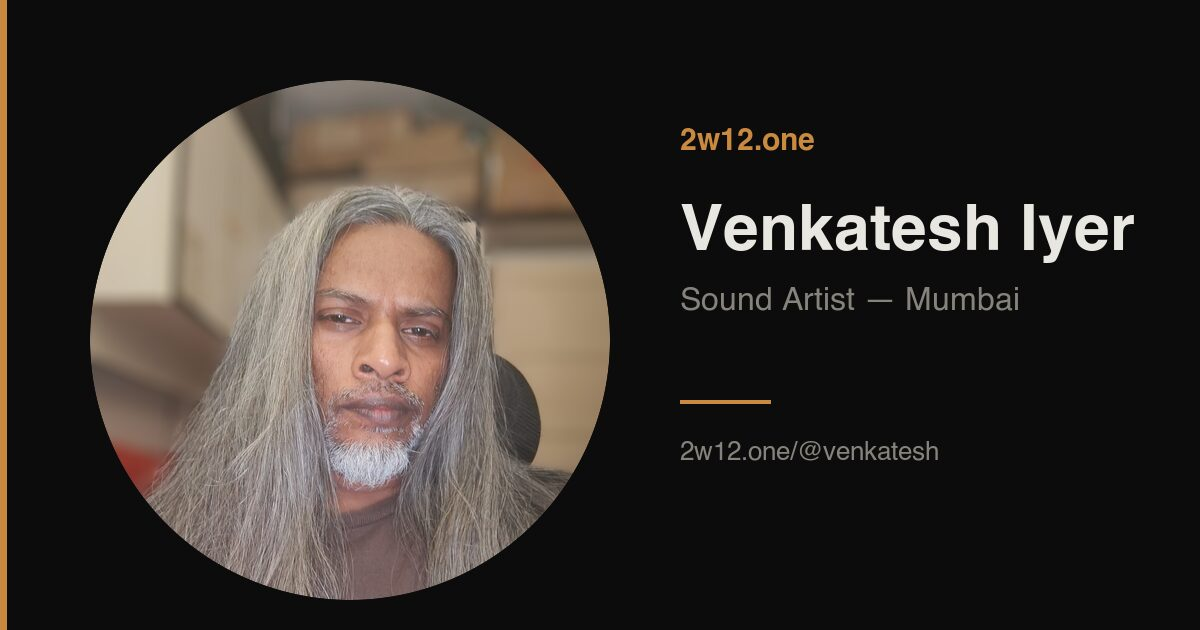
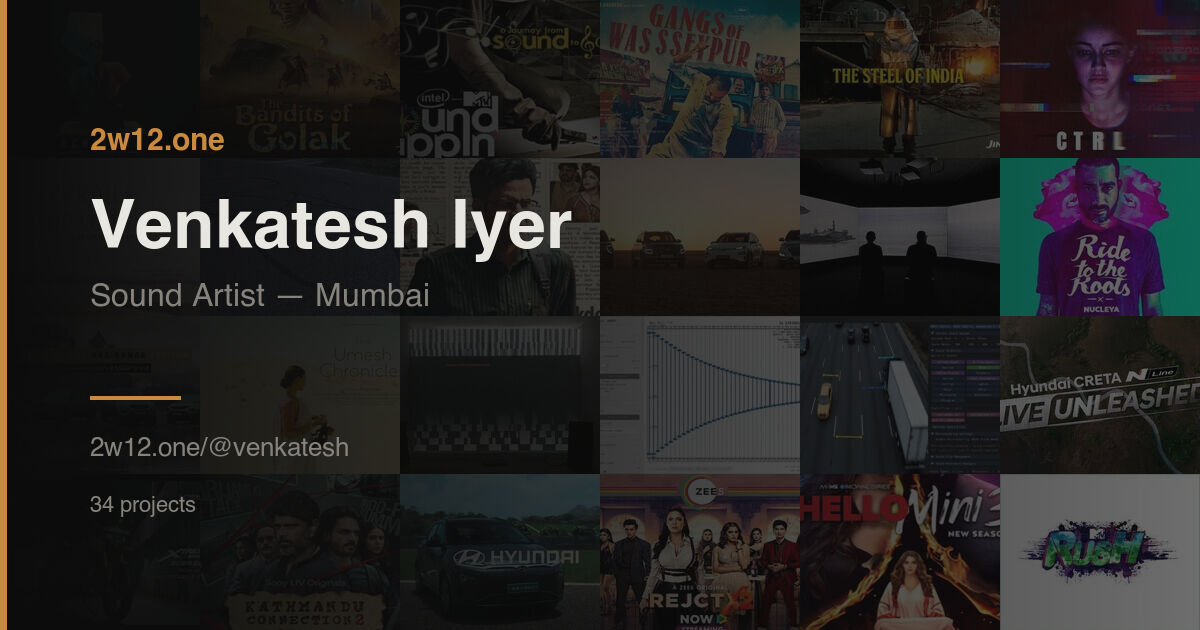
Make the link-preview card a mosaic of the project posters
A headshot says who; a wall of film posters says what. On a link sent to a
client the second lands harder, so the card is now a 6x4 mosaic of the project
covers in page order — pinned first, then featured, then newest, hidden
excluded — darkened 58% with a left scrim, and the wordmark, name, tagline,
handle and project count over it. Tiles centre-crop so posters of different
aspect ratios don't letterbox, and the list cycles if there are fewer covers
than tiles. 1200x630 at 95 KB. Falls back to a plain dark card if a profile has
no local covers.

Two ImageMagick traps hit on the way, both silent:

-gravity persists across a command. It was still 'north' from the mosaic's
-extent, so every -annotate centred instead of left-aligning — the text landed
in the middle of the image on top of the busiest posters.

gradient: only renders top-to-bottom, so the intended left-to-right scrim
composited as nothing at all and the copy sat unreadable over the artwork. It
has to be built tall and rotated 270.

diff --git a/scripts/make-og-card.js b/scripts/make-og-card.js
@@ -3,9 +3,13 @@
 //
 // Pointing og:image straight at the headshot did not work: the original is
 // 2448x3264 and 3.6 MB, and scrapers skip images that large. They also expect
-// landscape; a portrait gets cropped badly or dropped. So this composes a real
-// card instead — dark ground, circular headshot, name, tagline, wordmark — and
-// keeps it well under the size scrapers tolerate.
+// landscape; a portrait gets cropped badly or dropped.
+//
+// So this composes a card: a 6x4 mosaic of the project posters in page order,
+// darkened hard with a left scrim, and the name, tagline, handle and project
+// count over it. The posters are texture and evidence of a body of work — a
+// headshot says who, a wall of film posters says what, and the second reads
+// better on a link someone sends a client.
 //
 // Needs ImageMagick (`brew install imagemagick`). Output is committed, so
 // production never runs this.
@@ -53,61 +57,103 @@ function wrap(text, perLine) {
   return lines;
 }
 
-function buildCard(profile) {
-  const slug = profile.slug;
-  const out = path.join(OUT_DIR, `${slug}.jpg`);
+// Tiles are laid out 6x4 at 200x158, which fills 1200x632 and gets cropped to
+// 630. Fewer covers than tiles just cycles the list.
+const COLS = 6;
+const ROWS = 4;
+const TW = 200;
+const TH = 158;
 
-  // Prefer the original over the .webp — ImageMagick handles jpg/png everywhere,
-  // and webp support depends on how it was built.
-  let portrait = null;
-  if (profile.avatar_url && profile.avatar_url.startsWith('/')) {
-    const rel = profile.avatar_url.replace(/^\//, '');
-    for (const candidate of [rel.replace(/\.webp$/i, '.jpg'), rel.replace(/\.webp$/i, '.png'), rel]) {
+async function coversFor(knexRef, profile) {
+  const rows = await knexRef('tracks').where({ profile_id: profile.id }).whereNull('parent_track_id');
+  const ordered = rows
+    .filter((t) => !t.hidden)
+    .sort(
+      (a, b) =>
+        (b.sort_order || 0) - (a.sort_order || 0) ||
+        (b.featured ? 1 : 0) - (a.featured ? 1 : 0) ||
+        (b.year || 0) - (a.year || 0)
+    );
+
+  // Resolve to a file ImageMagick will definitely read — webp support depends
+  // on how the local build was compiled, and the png/jpg masters are all here.
+  const files = [];
+  for (const t of ordered) {
+    if (!t.cover_image_url || !t.cover_image_url.startsWith('/images/')) continue;
+    const rel = t.cover_image_url.replace(/^\//, '');
+    for (const candidate of [rel.replace(/\.webp$/i, '.png'), rel.replace(/\.webp$/i, '.jpg'), rel]) {
       const abs = path.join(__dirname, '..', 'public', candidate);
       if (fs.existsSync(abs)) {
-        portrait = abs;
+        files.push(abs);
         break;
       }
     }
   }
+  return files;
+}
 
-  const args = ['-size', `${W}x${H}`, `xc:${BG}`];
+function buildMosaic(files) {
+  const need = COLS * ROWS;
+  const tiles = [];
+  for (let i = 0; i < need; i++) {
+    const src = files[i % files.length];
+    const out = `/tmp/og-tile-${i}.jpg`;
+    // Fill the tile and centre-crop, so posters of different aspect ratios
+    // don't letterbox.
+    execFileSync('magick', [src, '-resize', `${TW}x${TH}^`, '-gravity', 'center', '-extent', `${TW}x${TH}`, '-quality', '88', out]);
+    tiles.push(out);
+  }
+  const mosaic = '/tmp/og-mosaic.jpg';
+  execFileSync('magick', ['montage', '-mode', 'concatenate', '-tile', `${COLS}x${ROWS}`, ...tiles, '-quality', '90', mosaic]);
+  tiles.forEach((t) => fs.unlinkSync(t));
+  return mosaic;
+}
 
-  // A hairline accent rule down the left edge, echoing the site's solo-credit cards.
-  args.push('-fill', ACCENT, '-draw', `rectangle 0,0 6,${H}`);
+async function buildCard(knexRef, profile) {
+  const slug = profile.slug;
+  const out = path.join(OUT_DIR, `${slug}.jpg`);
+  const files = await coversFor(knexRef, profile);
 
-  if (portrait) {
-    // Square-crop from the upper part of the portrait — that's where the face
-    // is — then mask to a circle.
-    const tmpFace = '/tmp/og-face.png';
-    execFileSync('magick', [
-      portrait,
-      '-resize', '520x520^',
-      '-gravity', 'north',
-      '-extent', '520x520',
-      '(', '+clone', '-alpha', 'extract', '-draw', 'fill black polygon 0,0 0,260 260,0 fill white circle 260,260 260,0', '(', '+clone', '-flip', ')', '-compose', 'Multiply', '-composite', '(', '+clone', '-flop', ')', '-compose', 'Multiply', '-composite', ')',
-      '-alpha', 'off', '-compose', 'CopyOpacity', '-composite',
-      tmpFace
-    ]);
-    args.push(tmpFace, '-geometry', '+90+80', '-composite');
+  const args = [];
+
+  if (files.length) {
+    const mosaic = buildMosaic(files);
+
+    // `gradient:` always renders top-to-bottom, so a left-to-right scrim has to
+    // be built tall and rotated. Without this the scrim silently did nothing.
+    const scrim = '/tmp/og-scrim.png';
+    execFileSync('magick', ['-size', `${H}x${W}`, `gradient:${BG}-none`, '-rotate', '270', '-resize', `${W}x${H}!`, scrim]);
+
+    // Darkened hard, because the text has to win. The posters are texture and
+    // evidence of a body of work, not the subject of the card.
+    args.push(mosaic, '-resize', `${W}x${H}^`, '-gravity', 'north', '-extent', `${W}x${H}`,
+              '-fill', BG, '-colorize', '58%', '-modulate', '96,90,100');
+    args.push(scrim, '-gravity', 'northwest', '-geometry', '+0+0', '-composite');
+  } else {
+    args.push('-size', `${W}x${H}`, `xc:${BG}`);
   }
 
-  const textX = portrait ? 680 : 96;
+  // Every -annotate below is an absolute offset from the top-left, so gravity
+  // must be cleared — it was still 'north' from the mosaic extent, which
+  // centred all the text instead of left-aligning it.
+  args.push('-gravity', 'none');
+  args.push('-fill', ACCENT, '-draw', `rectangle 0,0 6,${H}`);
 
+  const textX = 90;
   args.push('-font', 'Helvetica-Bold', '-pointsize', '30', '-fill', ACCENT, '-annotate', `+${textX}+150`, '2w12.one');
-  args.push('-font', 'Helvetica-Bold', '-pointsize', '64', '-fill', INK, '-annotate', `+${textX}+250`, profile.name);
+  args.push('-font', 'Helvetica-Bold', '-pointsize', '68', '-fill', INK, '-annotate', `+${textX}+248`, profile.name);
 
-  wrap(profile.tagline || 'All things sound', 30).slice(0, 2).forEach((line, i) => {
-    args.push('-font', 'Helvetica', '-pointsize', '32', '-fill', MUTED, '-annotate', `+${textX}+${310 + i * 44}`, line);
+  wrap(profile.tagline || 'All things sound', 32).slice(0, 2).forEach((line, i) => {
+    args.push('-font', 'Helvetica', '-pointsize', '32', '-fill', MUTED, '-annotate', `+${textX}+${306 + i * 44}`, line);
   });
 
-  args.push('-fill', ACCENT, '-draw', `rectangle ${textX},${400} ${textX + 90},${403}`);
-  args.push('-font', 'Helvetica', '-pointsize', '26', '-fill', MUTED, '-annotate', `+${textX}+460`, `2w12.one/@${slug}`);
+  args.push('-fill', ACCENT, '-draw', `rectangle ${textX},396 ${textX + 90},399`);
+  args.push('-font', 'Helvetica', '-pointsize', '26', '-fill', MUTED, '-annotate', `+${textX}+456`, `2w12.one/@${slug}`);
 
-  // Quality 82 with stripped metadata keeps this comfortably inside the size
-  // scrapers will fetch.
-  args.push('-quality', '82', '-strip', out);
+  const count = (await knexRef('tracks').where({ profile_id: profile.id }).whereNull('parent_track_id').where({ hidden: false }).count({ c: '*' }).first()).c;
+  args.push('-font', 'Helvetica', '-pointsize', '22', '-fill', MUTED, '-annotate', `+${textX}+512`, `${count} projects`);
 
+  args.push('-quality', '80', '-strip', out);
   execFileSync('magick', args);
   return out;
 }
@@ -126,7 +172,7 @@ async function main() {
   }
 
   for (const p of profiles) {
-    const out = buildCard(p);
+    const out = await buildCard(knex, p);
     const kb = Math.round(fs.statSync(out).size / 1024);
     console.log(`  ${p.name.padEnd(20)} -> /images/og/${p.slug}.jpg  (${kb} KB)`);
     if (kb > 300) console.log('    ! over 300 KB — some scrapers skip images this large');

diff --git a/CLAUDE.md b/CLAUDE.md
@@ -126,7 +126,16 @@ Clients should **never see the word "portfolio"** in the public UI — the heade
 - The **`@` prefix is why this is safe**: a bare `/venkatesh` would be a catch-all on one path segment, would have to be the last route registered, and would compete with every future top-level page. With `@` it can't shadow anything, so `RESERVED` in `lib/slug.js` is only about keeping handles sensible (no `/@admin`), not about routing.
 - **`/portfolio` 302s to `/@<owner>`** so there's one canonical URL per person and old links keep working.
 - `/p/:token` still exists for the unguessable link.
-- **Open Graph tags** in `views/partials/head.ejs`, populated per profile in `routes/portfolio.js` — name + tagline as the title, bio as the description, headshot as the image. This is the part that makes a pasted link render as a card in WhatsApp/Slack/iMessage instead of a bare URL, which was the actual complaint. Two gotchas: `og:image` must be an **absolute** URL, and it points at the **`.jpg`** rather than the `.webp` because scraper support for WebP previews is still patchy.
+- **Open Graph tags** in `views/partials/head.ejs`, populated per profile in `routes/portfolio.js`. This is what makes a pasted link render as a card in WhatsApp/Slack/iMessage instead of a bare URL.
+- **`npm run make:og`** (`scripts/make-og-card.js`) builds the preview image: a **6×4 mosaic of the project posters in page order**, darkened 58% with a left-to-right scrim, and the wordmark, name, tagline, handle and project count over it. 1200×630, ~95 KB, committed — production never runs ImageMagick. Re-run after curating, since the mosaic follows pin/feature/hidden order.
+
+  Why a mosaic rather than the headshot: a headshot says *who*, a wall of film posters says *what*, and on a link sent to a client the second lands harder.
+
+  Four things that each broke this, worth not repeating:
+  - `og:image` must be an **absolute** URL.
+  - Pointing it at the headshot itself failed silently — the original is 2448×3264 and **3.6 MB**, and WhatsApp skips images that large. Title and description rendered; the image didn't. Keep cards **under ~300 KB**; the script warns past that.
+  - `-gravity` persists across an ImageMagick command. It was left at `north` from the mosaic's `-extent`, which **centred every `-annotate`** instead of left-aligning it.
+  - `gradient:` only renders **top-to-bottom**. A left-to-right scrim has to be built tall and `-rotate 270`'d — otherwise it composites invisibly and the text sits unreadable on top of the posters.
 - **Dashboard → "Your share link"**: the URL, a copy button, a preview link, and a collapsible handle editor that refuses reserved and taken handles. A missing slug is backfilled on first dashboard view, so nobody sees an empty panel.
 
 Verified: `/@venkatesh` 200, `/portfolio` → 302 to it, `/@nobody` 404, a new account auto-gets `/@ravi`, handle changes take effect immediately, and reserved/taken handles are both refused.
